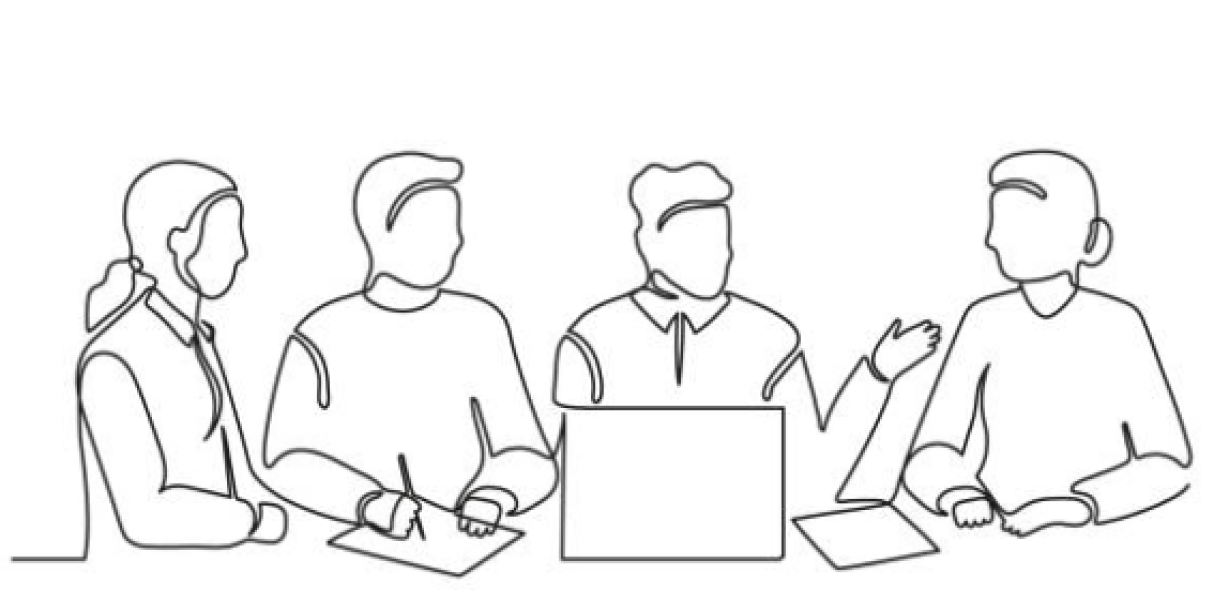
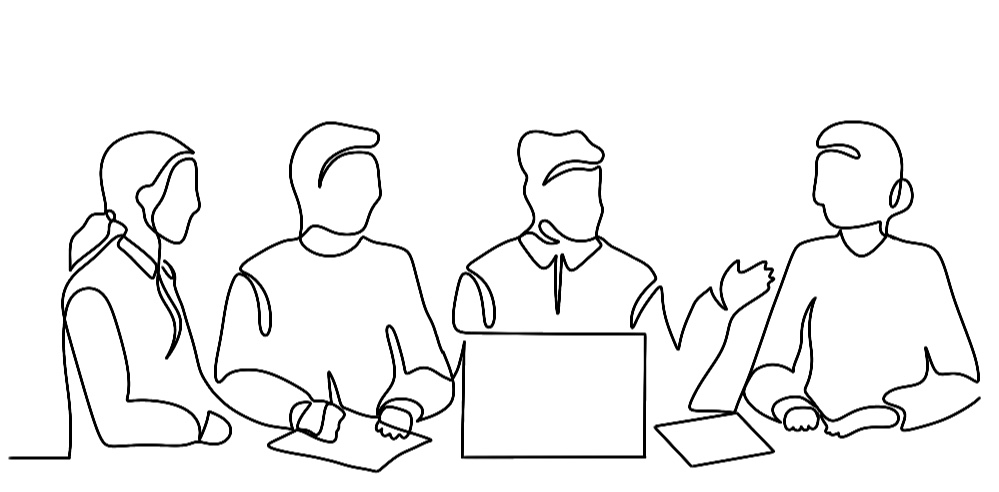
사진 바꾸기

Changed region(s): [[0.0, 0.2439, 0.993, 0.9756], [0.8068, 0.2439, 0.962, 0.6402]]

diff --git a/src/pages/mainPage/Components/StudyDetailModal.js b/src/pages/mainPage/Components/StudyDetailModal.js
@@ -6,6 +6,7 @@ import {
   useSubmitClassroomCode,
 } from "../../../hooks/useClassroom";
 import { useNavigate } from "react-router-dom";
+import untocImg from "../../../images/untocImg.png";
 
 const StudyDetailModal = ({
   isStudyDetailModalOpen,
@@ -70,7 +71,13 @@ const StudyDetailModal = ({
         </div>
         <div className="flex-grow px-3 flex flex-col gap-[0.5rem]">
           <div className="flex-[4.5] flex gap-[1rem]">
-            <div className="flex-[4] bg-black">사진</div>
+            <div className="flex-[4] bg-black rounded-lg">
+              <img
+                src={untocImg}
+                alt="untocImg"
+                className="object-cover h-full w-full rounded-lg"
+              />
+            </div>
             <div className="flex-[6] bg-white flex flex-col gap-3">
               <div className="text-lightBlack text-xl font-semibold">
                 {title}

diff --git a/src/pages/mainPage/Components/StudyComponent.js b/src/pages/mainPage/Components/StudyComponent.js
@@ -1,4 +1,5 @@
 import React from "react";
+import untocImg from "../../../images/untocImg.png";
 
 const StudyComponent = ({ detail, onClick }) => {
   return (
@@ -6,7 +7,13 @@ const StudyComponent = ({ detail, onClick }) => {
       className="min-w-[15rem] flex flex-col gap-2 cursor-pointer min-h-[15rem]"
       onClick={onClick}
     >
-      <div className="bg-black h-[9rem] rounded-lg"></div>
+      <div className="bg-black h-[9rem] rounded-lg">
+        <img
+          src={untocImg}
+          alt="untocImg"
+          className="object-cover h-full w-full rounded-lg"
+        />
+      </div>
       <div className="text-sm">{detail.title}</div>
       <div className="flex gap-2 text-[#525252] text-sm">
         <div className="min-w-[3rem]">{detail.name}</div>
